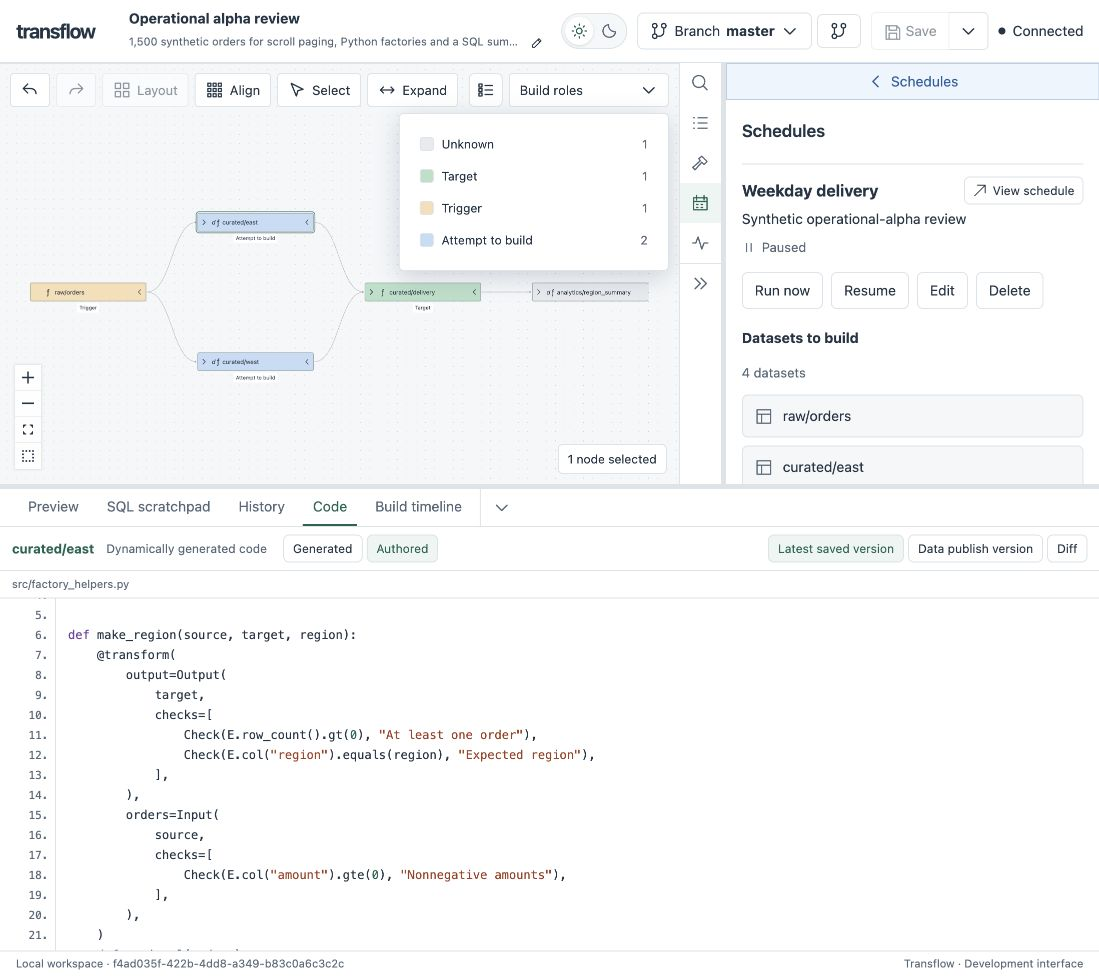
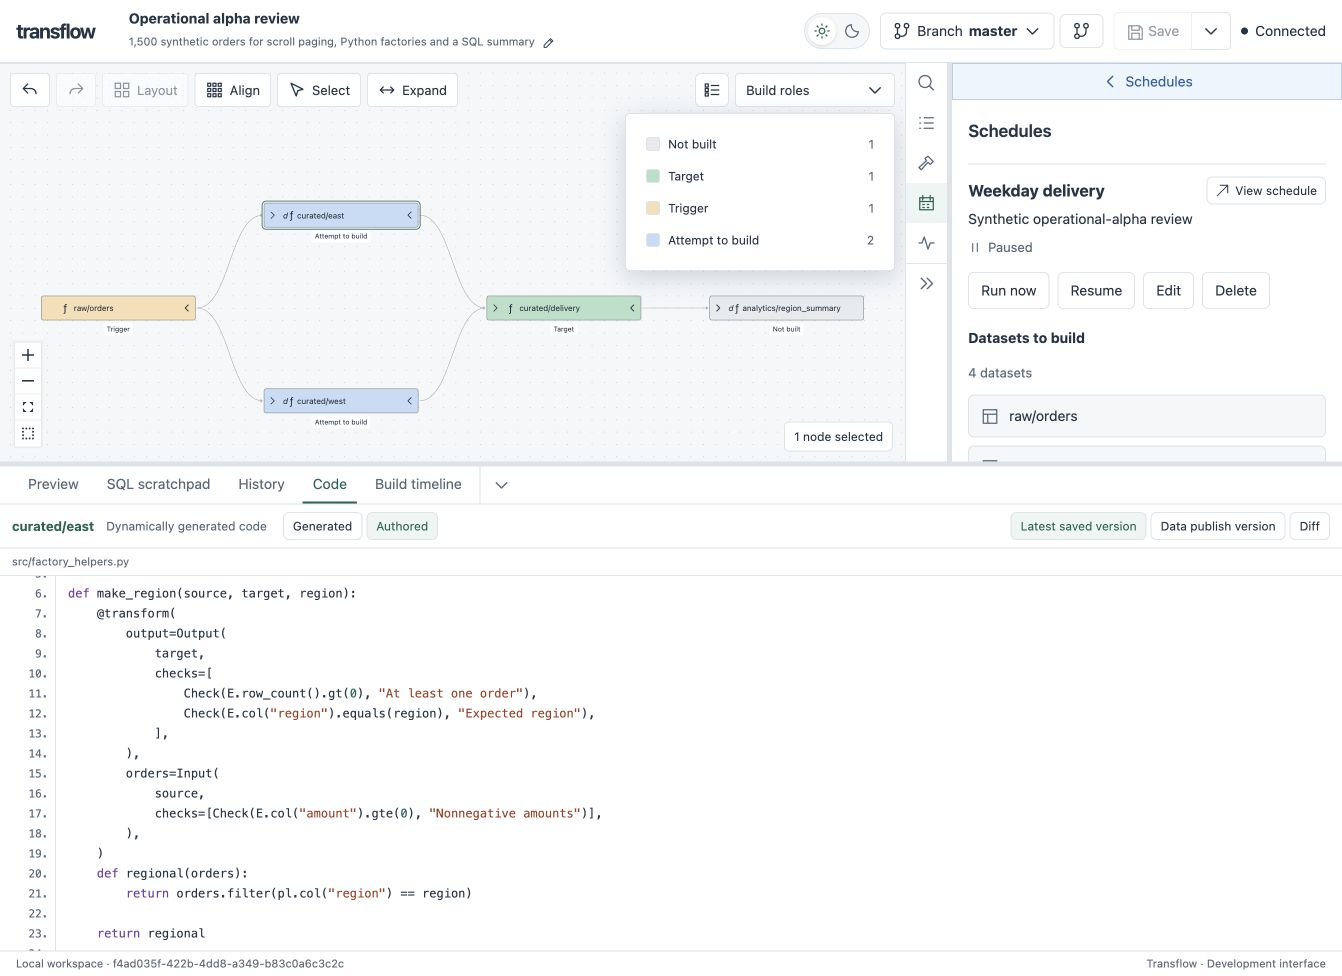
Label schedule nonmembers Not built and refresh checked factory visual

diff --git a/web/src/graph/graph.test.tsx b/web/src/graph/graph.test.tsx
@@ -1263,7 +1263,7 @@ test("a newly accepted capture preserves canvas membership and camera on the sam
   workspace.dispose();
 });
 
-test("an active schedule hides irrelevant Unknown labels and retains target/trigger badges without changing canvas geometry", async () => {
+test("an active schedule distinguishes Not built from loading and retains simultaneous roles and canvas geometry", async () => {
   const root = node(`dataset:${workspaceId}:${datasetId}`),
     other = node(`dataset:${workspaceId}:${workspaceId}`);
   const workspace = new Workspace(
@@ -1317,8 +1317,18 @@ test("an active schedule hides irrelevant Unknown labels and retains target/trig
     />,
   );
   expect(view.container.querySelectorAll(".node-overlay-label")).toHaveLength(
-    1,
+    2,
   );
+  expect(
+    screen.getByText("Not built", { selector: ".node-overlay-label" }),
+  ).toBeTruthy();
+  fireEvent.click(screen.getByRole("button", { name: "Toggle legend" }));
+  expect(
+    screen.getByRole("button", { name: "Select Not built nodes" }).textContent,
+  ).toBe("Not built1");
+  expect(
+    screen.queryByRole("button", { name: "Select Unknown nodes" }),
+  ).toBeNull();
   expect(view.container.querySelector(".node-overlay-badges")).toBeNull();
   expect(
     view.container.querySelector(".node-overlay-label")?.getAttribute("title"),

diff --git a/web/src/graph/overlays.ts b/web/src/graph/overlays.ts
@@ -28,6 +28,7 @@ const names: Record<string, string> = {
   external: "External Dataset",
   dataset: "Dataset",
   unknown: "Unknown",
+  not_built: "Not built",
   no_build: "No build on branch",
   published: "Published",
   missing: "Not built on these branches",
@@ -212,7 +213,8 @@ export function paint(
                   "planned",
                   "boundary",
                   "cached",
-                ].find((r) => roles(node, plan).includes(r)) ?? "unknown");
+                ].find((r) => roles(node, plan).includes(r)) ??
+                (f?.roles !== undefined || plan ? "not_built" : "unknown"));
   const reasons =
     plan?.freshness
       .find((s) => s.identity === node.identity)
@@ -226,7 +228,8 @@ export function paint(
       colour === "roles"
         ? roles(node, plan)
             .map((role) => names[role] ?? role)
-            .join(" · ") || "Unknown"
+            .join(" · ") ||
+          (names[key] ?? "Unknown")
         : colour === "freshness" && reasons.length
           ? reasons.join("\n")
           : (names[key] ?? "Unknown"),

diff --git a/web/src/graph/overlays.test.tsx b/web/src/graph/overlays.test.tsx
@@ -112,3 +112,20 @@ test("connecting schedule jobs are labelled Attempt to build while simultaneous 
     badges: ["Input check failed"],
   });
 });
+
+test("known empty schedule roles are Not built while unavailable roles remain Unknown", () => {
+  expect(
+    paint({ ...node, overlay: { ...facts, roles: [] } }, "roles"),
+  ).toMatchObject({
+    key: "not_built",
+    label: "Not built",
+    detail: "Not built",
+  });
+  const unavailable = { ...facts };
+  delete unavailable.roles;
+  expect(paint({ ...node, overlay: unavailable }, "roles")).toMatchObject({
+    key: "unknown",
+    label: "Unknown",
+    detail: "Unknown",
+  });
+});

diff --git a/web/src/styles.css b/web/src/styles.css
@@ -1787,6 +1787,7 @@ revo-grid.preview-grid
   background: #d9eef1;
 }
 .colour-unknown,
+.colour-not_built,
 .colour-no_build {
   background: #e8eaee;
 }
@@ -1808,6 +1809,7 @@ revo-grid.preview-grid
   background: #29434a;
 }
 .theme-dark .colour-unknown,
+.theme-dark .colour-not_built,
 .theme-dark .colour-no_build {
   background: #353e4a;
 }

diff --git a/python/tools/create_sql_checks_demo.py b/python/tools/create_sql_checks_demo.py
@@ -26,9 +26,7 @@ from transflow import expectations as E
 @transform(
     output=Output(
         "raw/orders",
-        checks=[
-            Check(E.primary_key("order_id"), "Order identifiers"),
-        ],
+        checks=[Check(E.primary_key("order_id"), "Order identifiers")],
     ),
 )
 def orders():
@@ -52,9 +50,7 @@ from transflow import expectations as E
 @transform(
     output=Output(
         "raw/customers",
-        checks=[
-            Check(E.primary_key("customer_id"), "Customer identifiers"),
-        ],
+        checks=[Check(E.primary_key("customer_id"), "Customer identifiers")],
     ),
 )
 def customers():
@@ -117,9 +113,7 @@ from transflow import expectations as E
 @transform(
     output=Output(
         "curated/report",
-        checks=[
-            Check(E.row_count().equals(E.input("rows").row_count()), "Row count is preserved"),
-        ],
+        checks=[Check(E.row_count().equals(E.input("rows").row_count()), "Row count is preserved")],
     ),
     rows=Input(
         "curated/qualified_orders",

diff --git a/python/tools/create_factory_demo.py b/python/tools/create_factory_demo.py
@@ -26,9 +26,7 @@ def make_region(source, target, region):
         ),
         orders=Input(
             source,
-            checks=[
-                Check(E.col("amount").gte(0), "Nonnegative amounts"),
-            ],
+            checks=[Check(E.col("amount").gte(0), "Nonnegative amounts")],
         ),
     )
     def regional(orders):

diff --git a/docs/development/verification.md b/docs/development/verification.md
@@ -1,5 +1,35 @@
 # Contributor verification
 
+## Schedule nonmember label and compact checks (2026-10-22)
+
+The Build roles graph and legend distinguish confirmed empty roles (Not built)
+from unavailable metadata (Unknown). Both light and dark themes retain neutral
+node/swatches. The existing graph regression covers loading, simultaneous roles,
+the Not built count and unchanged geometry; the overlay regression covers the
+known-empty/unavailable distinction. All 688 web tests in 31 files, strict types,
+lint/format, worker probes and reproducible production assets pass.
+
+The owner further refines the authoring convention: a single check stays on its
+`checks=[Check(...)]` line, while multiple checks use separate list lines.
+The declaration guide, demo templates and canonical contributor instructions
+record that layout. AST comparisons preserve all 11 generator templates and
+declaration guide examples; Ruff lint/format passes for the changed tools.
+The existing `preview-scroll-review` workspace is backed up and reformatted in
+place, then successfully rebuilds all five datasets with its 1,500 synthetic
+orders and passing checks. Both schedules remain paused; only their fixed source
+pins advance to that verified capture, with IDs, triggers and targets preserved.
+The catalogue identities remain unchanged.
+
+The existing launcher rebuilds the CLI/UI. Internal Browser confirms Weekday
+delivery open, Not built 1, Target 1, Trigger 1 and Attempt to build 2 in the
+legend, and the complete checked dynamic factory in Authored Code. The README
+uses the unchanged 1342 × 976 JPEG capture; browser console errors are empty.
+No execution/API/storage or dependency change is introduced. Broader Rust/Python
+application suites are not repeated for the UI label and source formatting.
+All 27 safety regressions, paired safety/contract checks, specification/link
+validation and diff checks pass.
+The verification coordinator is stopped before handoff; new CI is owner-monitored.
+
 ## Output-first authoring and schedule README capture (2026-10-22)
 
 Contributor guidance and the public declaration guide require Output first,

diff --git a/python/DECLARATIONS.md b/python/DECLARATIONS.md
@@ -3,8 +3,9 @@
 ## Declaration layout
 
 Put the Output first and each Input below it on a separate line. Place checks
-below the corresponding binding in a `checks=[...]` block, one Check per line.
-Use trailing commas to retain this layout, even for one binding or one check.
+below the corresponding binding. Keep a single check on one `checks=[Check(...)]`
+line; expand multiple checks into a `checks=[...]` block, one Check per line.
+Use trailing commas to retain the vertical binding and multiple-check layout.
 The same convention applies to Python, metadata-aware Python, SQL and source
 transforms, including generated sample workspaces. Keyword order is a readability
 convention; existing declarations remain valid.
@@ -24,9 +25,7 @@ from transflow import expectations as E
     ),
     orders=Input(
         "raw/orders",
-        checks=[
-            Check(E.col("amount").gte(0), "Nonnegative amounts"),
-        ],
+        checks=[Check(E.col("amount").gte(0), "Nonnegative amounts")],
     ),
 )
 def checked_orders(orders):
@@ -50,9 +49,7 @@ from transflow import expectations as E
 @transform(
     output=Output(
         "curated/items",
-        checks=[
-            Check(E.primary_key("id"), "Unique item IDs", id="item_pk"),
-        ],
+        checks=[Check(E.primary_key("id"), "Unique item IDs", id="item_pk")],
     ),
     items=Input("raw/items", branch=Branch.CURRENT),
 )

diff --git a/web/README.md b/web/README.md
@@ -406,9 +406,10 @@ paused state unchanged. Pause/Resume and confirmed deletion use guarded API acti
 Saved target/trigger/exclusion/boundary facts come from the backend, with bounded
 pagination and edit/source/policy fences. Runtime job transitions do not invalidate
 unchanged saved role facts. Hidden relevant datasets can be added explicitly.
-The sidebar has no scope-preview action or persistent complete-scope notice. Irrelevant
-Unknown labels are hidden while a schedule is active. Temporary role coloring leaves
-the saved coloring and geometry intact.
+The sidebar has no scope-preview action or persistent complete-scope notice. Datasets
+with confirmed empty schedule/scope roles show Not built in the graph and legend.
+Unavailable role information remains Unknown, with its node label hidden while a
+schedule is active. Temporary role coloring leaves saved coloring and geometry intact.
 
 The sidebar keeps browsing controls in the list and provides a blue Schedules back
 button above the heading in selected details. View schedule aligns with the name and

diff --git a/docs/assets/README.md b/docs/assets/README.md
@@ -6,9 +6,11 @@ banner, displayed above the root README title. Its image bytes are unchanged.
 `lineage-ui.jpg` is an original Transflow UI screenshot captured on 2026-10-22
 from the existing synthetic `preview-scroll-review` workspace and the rebuilt
 production UI. It shows the paused Weekday delivery schedule, the trigger/target
-role legend and Authored code for the dynamic `curated/east` factory, with output
-checks above input checks. The workspace retains 1,500 synthetic orders.
-The image is an unchanged 1099 × 976 JPEG browser capture. It contains no user-provided
+role legend, including Not built for the SQL summary outside the schedule, and
+Authored code for the dynamic `curated/east` factory, with output checks above the
+single-line input check and its transform body visible. The workspace retains
+1,500 synthetic orders.
+The image is an unchanged 1342 × 976 JPEG browser capture. It contains no user-provided
 reference screenshot or production data; the visible workspace identifier belongs
 to the synthetic demo.
 
